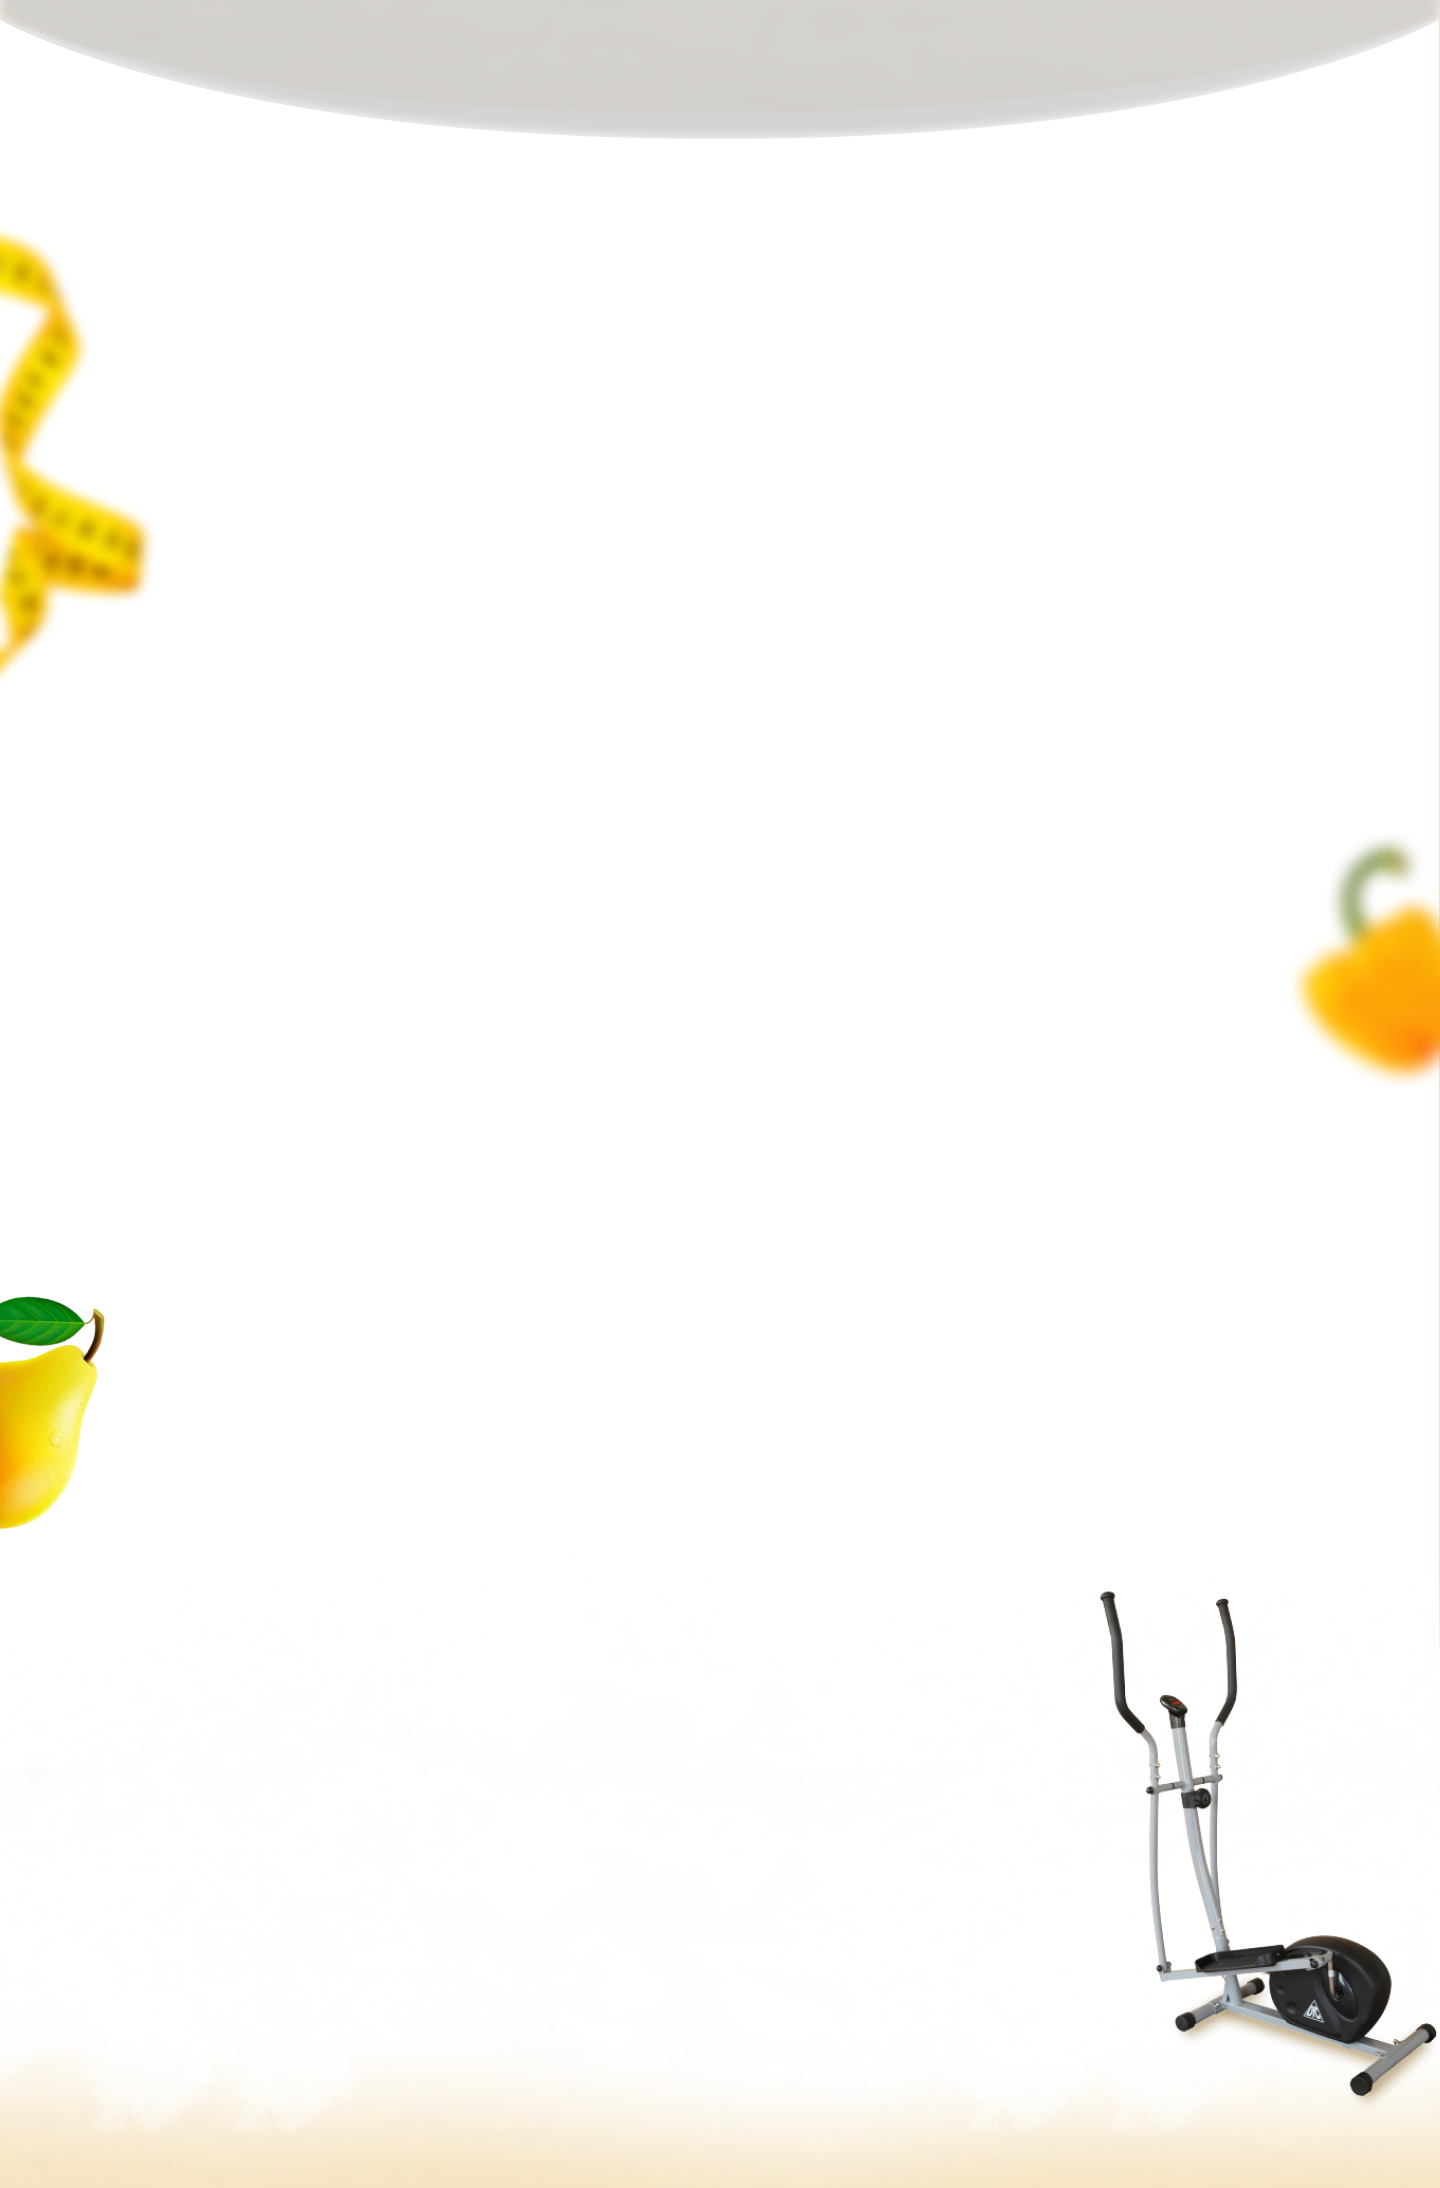
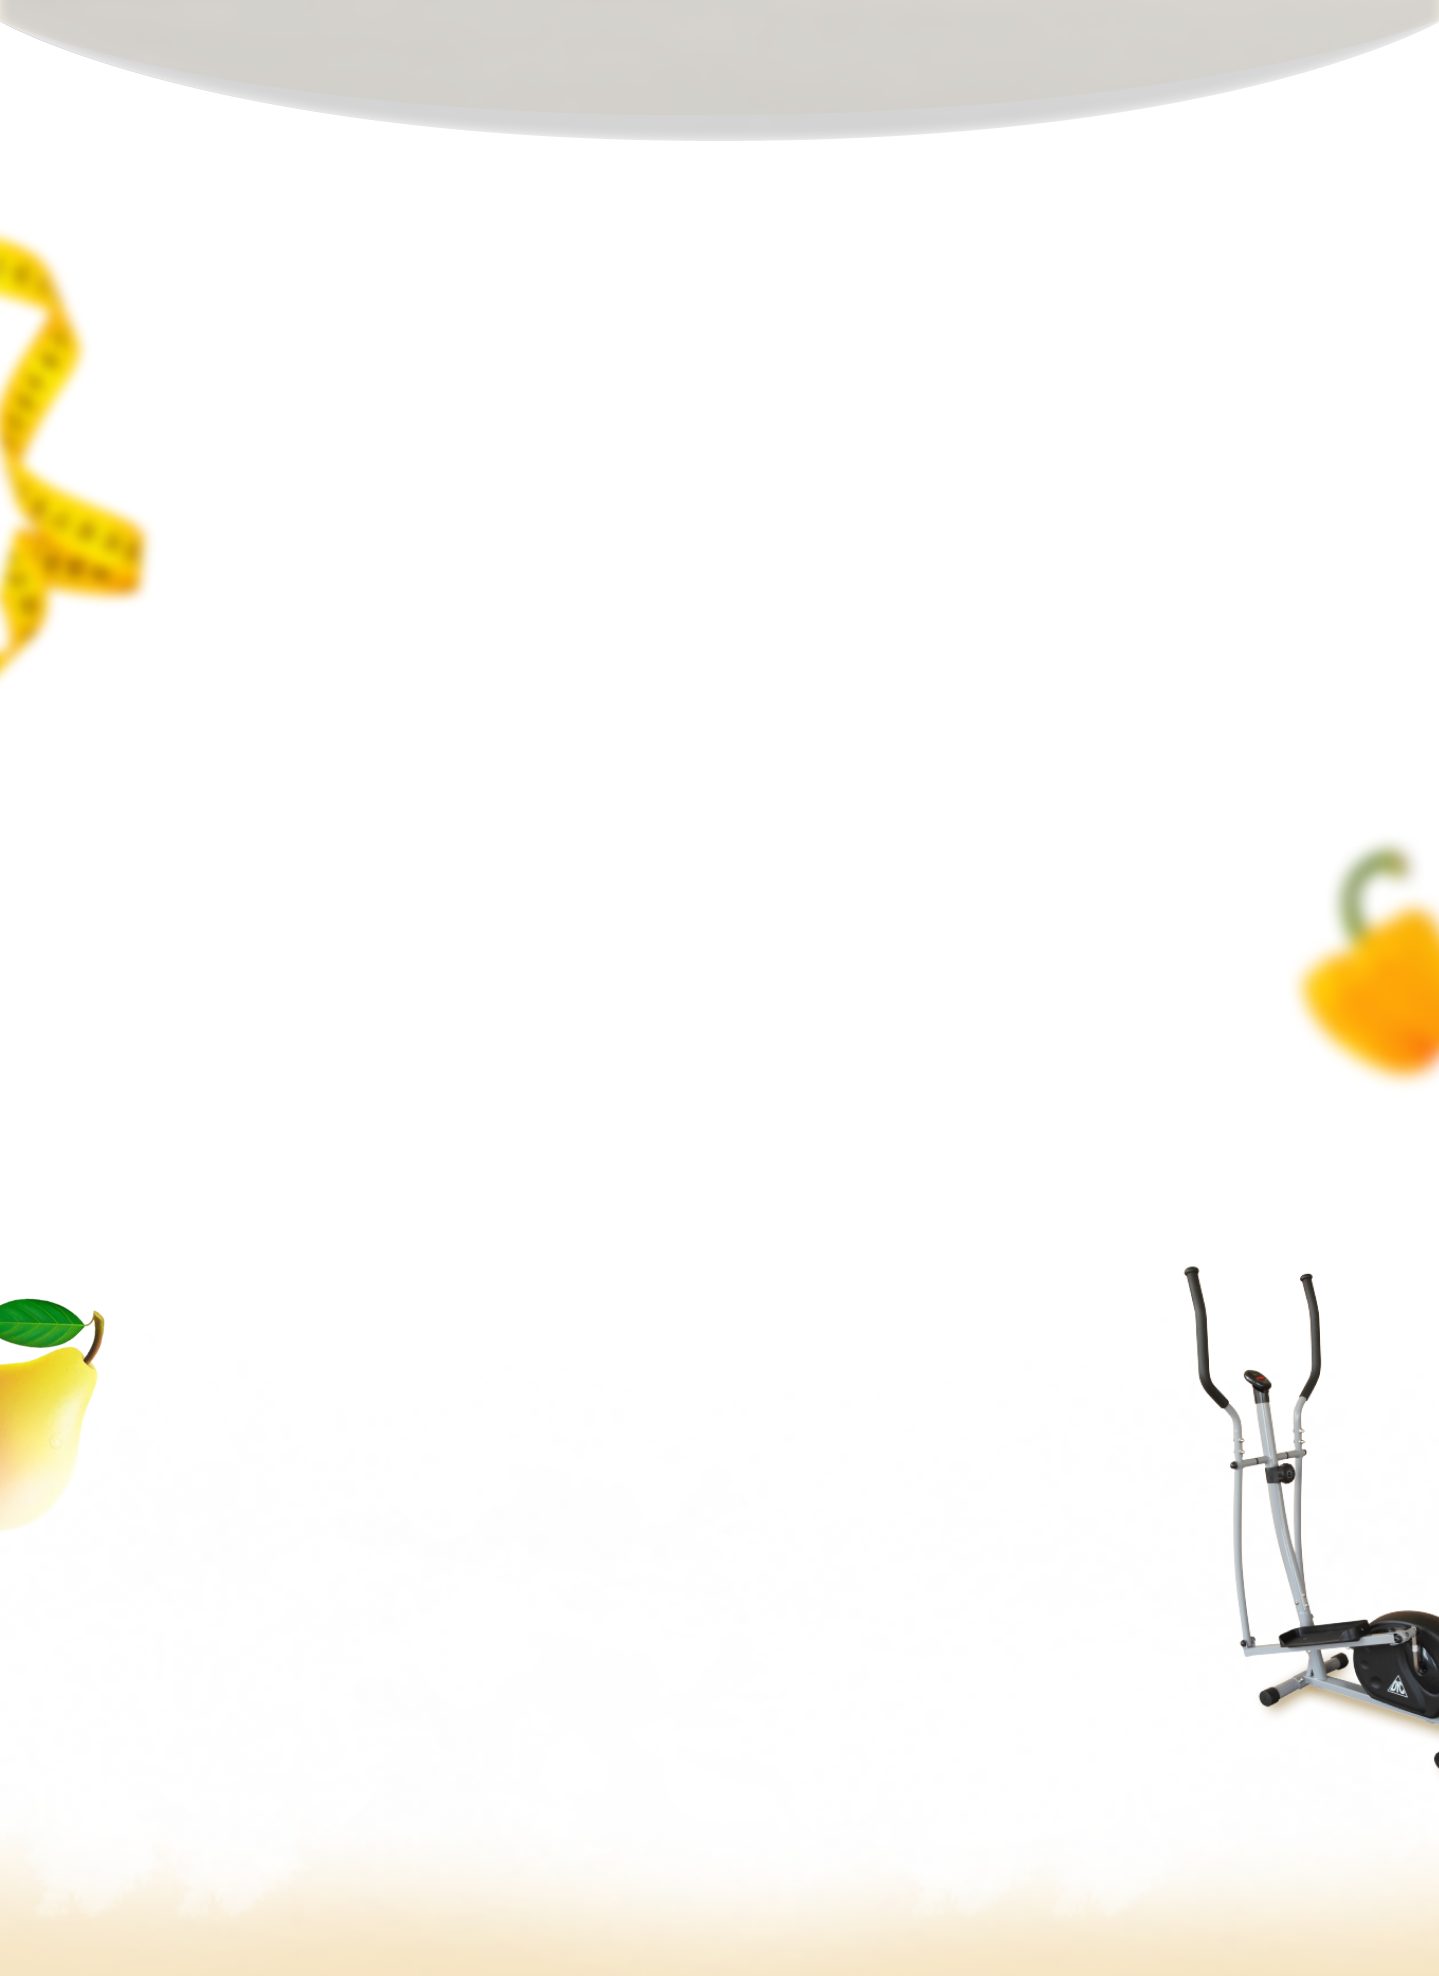
some fix

diff --git a/src/components/home/carousel/Carousel.module.css b/src/components/home/carousel/Carousel.module.css
@@ -3,7 +3,8 @@
   padding: 8rem 8%;
   background-image: url("../../../assets/home/carousel/background.png");
   background-size: cover;
-  padding-top: 20rem;
+  background-repeat: no-repeat;
+  padding-top: 15rem;
 }
 
 .item {
@@ -17,7 +18,6 @@
   border-radius: 30px;
   width: 70%;
   height: 600px;
-  border-width: 80%;
 }
 
 .item img {
@@ -55,7 +55,6 @@
 
   color: #20082d;
   width: 80%;
-
 }
 
 .btn_body {
@@ -64,35 +63,181 @@
   margin: 0 auto;
 }
 
-@media (min-width: 0) and (max-width: 1200.9px) {
+@media (min-width: 0) and (max-width: 1209.9px) {
   .item {
     flex-direction: column;
     width: 100%;
+    height: 450px;
+    align-items: center;
+    background-size: 100% 80%;
   }
   .carousel {
     background-color: #fcf5ff;
-    padding: 3rem 2%;
+    padding: 5rem 2%;
   }
   .item img {
-    width: 100%;
+    width: 15%;
+    height: auto;
+    left: auto;
+    right: auto;
   }
   .item__text {
     width: 100%;
+    margin-top: auto;
+    margin-bottom: 3rem;
   }
   .item__text h1 {
-    font-size: 20px;
-    line-height: 28px;
+    font-size: 18px;
+    line-height: 27px;
     text-align: center;
+    margin: auto auto 18px;
   }
   .item__text p {
     font-size: 12px;
     line-height: 20px;
     text-align: center;
+    margin: 0 auto;
   }
 
   .btn_body {
     text-align: center;
     width: 50%;
     margin: 1rem auto;
+  }
+}
+
+@media (min-width: 720px) and (max-width: 1209.9px) {
+  .item {
+    flex-direction: column;
+    width: 100%;
+    height: 600px;
+    align-items: center;
+    background-size: 100% 80%;
+  }
+  .item img {
+    width: 20%;
+    height: auto;
+    left: auto;
+    right: auto;
+  }
+  .item__text {
+    width: 100%;
+    margin-top: auto;
+    margin-bottom: 10%;
+  }
+}
+
+@media (min-width: 800px) and (max-width: 909.9px) {
+  .item {
+    flex-direction: column;
+    width: 100%;
+    height: 550px;
+    align-items: center;
+    background-size: 100% 80%;
+  }
+
+  .item img {
+    width: 15%;
+    height: auto;
+    left: auto;
+    right: auto;
+  }
+}
+@media (min-width: 910px) and (max-width: 1009.9px) {
+  .item {
+    flex-direction: column;
+    width: 100%;
+    height: 550px;
+    align-items: center;
+    background-size: 100% 80%;
+  }
+
+  .item img {
+    width: 15%;
+    height: auto;
+    left: auto;
+    right: auto;
+  }
+
+  .item__text {
+    width: 100%;
+    margin-top: auto;
+    margin-bottom: 5%;
+  }
+}
+@media (min-width: 1010px) and (max-width: 1209.9px) {
+  .item {
+    flex-direction: column;
+    width: 100%;
+    height: 600px;
+    align-items: center;
+    background-size: 100% 80%;
+  }
+
+  .item img {
+    width: 15%;
+    height: auto;
+    left: auto;
+    right: auto;
+  }
+
+  .item__text {
+    width: 100%;
+    margin-top: auto;
+    margin-bottom: 5%;
+  }
+}
+
+@media (min-width: 1210px) and (max-width: 1499.9px) {
+  .carousel {
+    padding: 8rem 3%;
+  }
+  .item {
+    width: 100%;
+    height: 600px;
+  }
+
+  .item img {
+    top: 0;
+    left: 0;
+  }
+
+  .item__text {
+    display: flex;
+    flex-direction: column;
+    justify-content: center;
+    width: 65%;
+  }
+
+  .item__text h1 {
+    font-size: 30px;
+    line-height: 45px;
+  }
+
+  .item__text p {
+    font-size: 18px;
+    line-height: 40px;
+  }
+}
+
+@media (min-width: 1500px) and (max-width: 1869.9px) {
+  .carousel {
+    padding: 8rem 3%;
+  }
+  .item {
+    width: 90%;
+    height: 600px;
+  }
+
+  .item img {
+    top: 0;
+    left: 0;
+  }
+
+  .item__text {
+    display: flex;
+    flex-direction: column;
+    justify-content: center;
+    width: 73%;
   }
 }

diff --git a/src/components/home/carousel/Carousel.jsx b/src/components/home/carousel/Carousel.jsx
@@ -9,7 +9,7 @@ import AOS from "aos";
 import "aos/dist/aos.css";
 import axios from "axios";
 import { useSelector } from "react-redux";
-import LoseWeightFast from './../../../assets/home/loseWeightFast/LoseWeightFast';
+import LoseWeightFast from "../loseWeightFast/LoseWeightFast";
 
 var config = {
   method: "get",
@@ -40,40 +40,40 @@ export const MyCarousel = () => {
         <Item
           picture={(data && data[0] && data[0].img) || main}
           title={
-            data && data[0] && data[0].title && language === "uz" ? (
-              data && data[0] && data[0].title
-            ) : language === "eng" ? (
-              data && data[0] && data[0].en_title
-            ) : language === "ru" ? (
-              data && data[0] && data[0].ru_title
-            ) : (
-              'bir'
-            )
+            data && data[0] && data[0].title && language === "uz"
+              ? data && data[0] && data[0].title
+              : language === "eng"
+              ? data && data[0] && data[0].en_title
+              : language === "ru"
+              ? data && data[0] && data[0].ru_title
+              : "bir"
           }
           text={data && data[0] && data[0].text}
         />
         <Item
           picture={data && data[0] && data[0].img}
           title={
-            data && data[0] && data[0].title && language === "uz" ? (
-              data && data[0] && data[0].title
-            ) : language === "eng" ? (
-              data && data[0] && data[0].en_title
-            ) : language === "ru" ? (
-              data && data[0] && data[0].ru_title
-            ) : (
-              'bir'
-            )
+            data && data[0] && data[0].title && language === "uz"
+              ? data && data[0] && data[0].title
+              : language === "eng"
+              ? data && data[0] && data[0].en_title
+              : language === "ru"
+              ? data && data[0] && data[0].ru_title
+              : "bir"
           }
           text={data && data[0] && data[0].text}
         />
       </Carousel>
-      <LoseWeightFast/>
+      {/* <LoseWeightFast /> */}
     </div>
   );
 };
 
-const Item = ({ picture, title='Qalqonsimon bez bilan bog‘liq muammo', text = "Gipoterioz vazn ortishining sabablaridan biri bo‘lishi mumkin. Agar qalqonsimon bezdan yetarli miqdorda gormon ajralib chiqmasa, metabolizm sekinlashadi va bu vazn to‘plashga olib keladi. Shuningdek, doimiy charchoqni his qilish, haroratning o‘zgarishi kuzatilishi mumkin. Ma’lumotlarga qaraganda, ayollar gipoteriozga erkaklarga nisbatan 8 marta ko‘proq chalinadi." }) => {
+const Item = ({
+  picture = main,
+  title = "Qalqonsimon bez bilan bog‘liq muammo",
+  text = "Gipoterioz vazn ortishining sabablaridan biri bo‘lishi mumkin. Agar qalqonsimon bezdan yetarli miqdorda gormon ajralib chiqmasa, metabolizm sekinlashadi va bu vazn to‘plashga olib keladi. Shuningdek, doimiy charchoqni his qilish, haroratning o‘zgarishi kuzatilishi mumkin. Ma’lumotlarga qaraganda, ayollar gipoteriozga erkaklarga nisbatan 8 marta ko‘proq chalinadi.",
+}) => {
   return (
     <div className={styles.item}>
       <img src={picture} alt="" />

diff --git a/src/components/home/loseWeightFast/LoseWeightFast.jsx b/src/components/home/loseWeightFast/LoseWeightFast.jsx
@@ -1,0 +1,29 @@
+import React from "react";
+
+import main from '../../../assets/home/laseWeightFast/main.png'
+
+import styles from "./LoseWeightFast.module.css";
+
+const LoseWeightFast = () => {
+  return (
+    <div>
+      <h1 className={styles.title}>
+        {" "}
+        TEZ OZISH UCHUN PARHEZLARNING 10 TA ENG SAMARALISI
+      </h1>
+      <div className={styles.main__block}>
+          <img src={main} alt="" />
+        <div className={styles.blocks}>
+          <div className={styles.blocks__box}>
+              bir
+          </div>
+          <div>
+              bir
+          </div>
+        </div>
+      </div>
+    </div>
+  );
+};
+
+export default LoseWeightFast;

diff --git a/src/components/home/loseWeightFast/LoseWeightFast.module.css b/src/components/home/loseWeightFast/LoseWeightFast.module.css
@@ -1,0 +1,31 @@
+.title {
+  font-family: var(--main-font-family);
+  font-style: normal;
+  font-weight: 600;
+  font-size: 34px;
+  line-height: 51px;
+
+  color: var(--main-font-color);
+  text-align: center;
+  margin: 10rem 0 0;
+}
+
+.main__block {
+  border: 2px solid red;
+  display: flex;
+}
+
+.blocks {
+  display: flex;
+  flex-wrap: wrap;
+  align-items: center;
+}
+
+.blocks__box {
+  width: 300px;
+  height: 100px;
+  background: #ffffff;
+  border: 2px solid;
+  border-radius: 50px;
+  border-image: linear-gradient(127deg, #FFA700, #DB8F00) 1;
+}

diff --git a/src/components/home/Home.jsx b/src/components/home/Home.jsx
@@ -8,7 +8,6 @@ export const Home = () => {
     <div>
       <Header />
       <MyCarousel />
-      <Task />  
       </div>              
   );
 };
